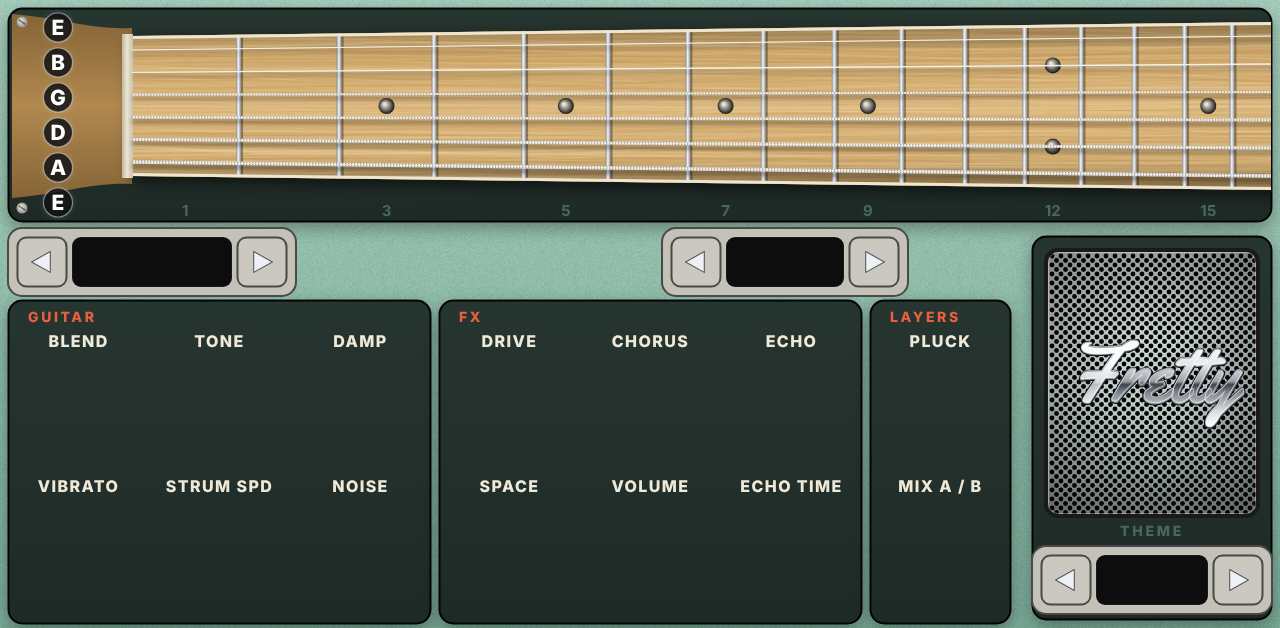
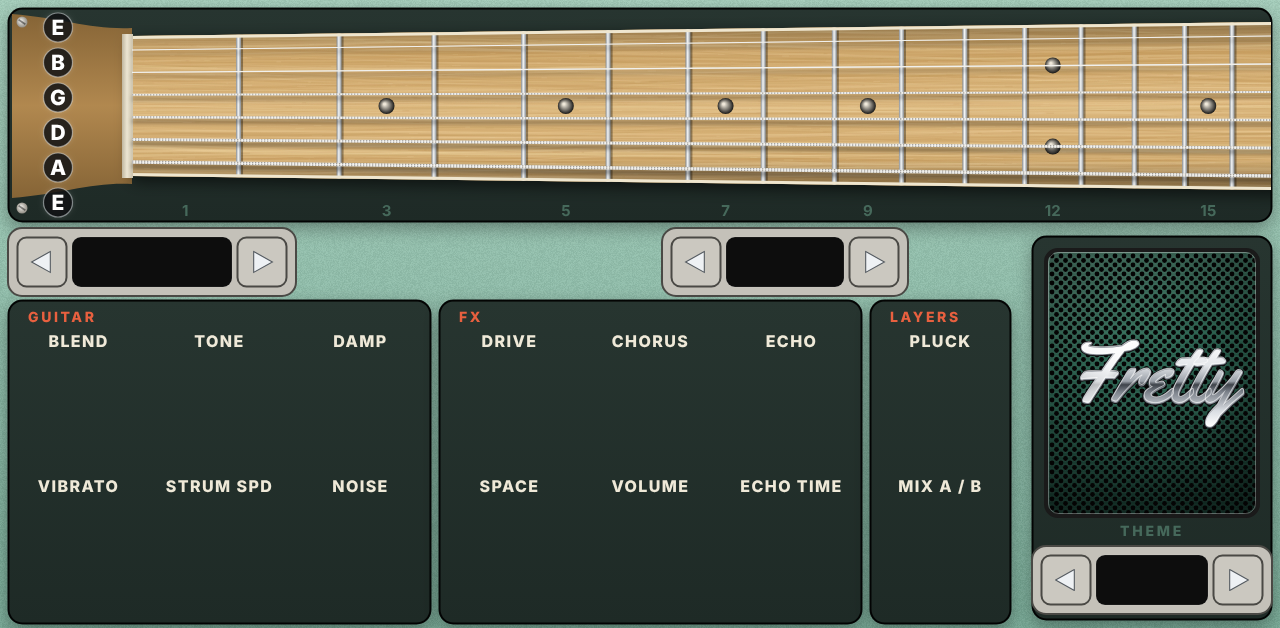
Fretboard dots: count from the nut (capo), DROP D♭ note names, none off the drawn neck; prefer positions on it; green Surf grille; test that every dot names the played note
Claude-Session: https://claude.ai/code/session_01JcLVG2K2WpLzKD3u6LkzWb

Changed region(s): [[0.8125, 0.3933, 1.0, 0.8169]]

diff --git a/tools/make_skin.py b/tools/make_skin.py
@@ -354,7 +354,7 @@ function background(name) {
 }
 // the wordmark sits on a perforated metal speaker grille, tinted per theme: [light, mid, dark]
 const MESH = new Map([[T.black, ['#5a5a5a', '#2a2a2a', '#151515']], [T.sunburst, ['#c9a46a', '#8a6a3e', '#3a2412']],
-  [T.grey, ['#8a8d92', '#55575b', '#2f3033']], [T.surf, ['#e4ece9', '#c9d6d2', '#a9b8b4']], [T.violet, ['#6a4c8a', '#3a2550', '#1f1428']],
+  [T.grey, ['#8a8d92', '#55575b', '#2f3033']], [T.surf, ['#5f9a83', '#2f6a56', '#173b30']], [T.violet, ['#6a4c8a', '#3a2550', '#1f1428']],
   [T.teal, ['#4f7c82', '#244a50', '#0f2428']]]);
 function wordPlate(x, y, w, h, size, t) {
   const themed = t === T.teal;
@@ -665,18 +665,18 @@ function vibStrip(i) {
   }
   return cv.toDataURL('image/png');
 }
-function fretStrip(i) {
+function fretStrip(i, off = 0) {   // off: the string's tuning from standard (DROP D♭: -3 on the low E)
   const b = meterBox(i), N = 17; setup(b.w * N, b.h);
   for (let f = 1; f < N; f++) {
     ctx.save(); ctx.translate(f * b.w - b.x, -b.y); ctx.beginPath(); ctx.rect(b.x, b.y, b.w, b.h); ctx.clip();
     const fret = f - 1;   // 0 = open
-    if (fret === 0) badge(58, stringY(i, NECK.x0), NOTE[TUNING[i] % 12], true, '#f3ecdc', '#141414');
+    if (fret === 0) badge(58, stringY(i, NECK.x0), NOTE[(TUNING[i] + off + 12) % 12], true, '#f3ecdc', '#141414');
     else {
       const x = (fretX(fret - 1) + fretX(fret)) / 2 + 4, y = stringY(i, x);
       ctx.save(); ctx.shadowColor = 'rgba(255,240,210,0.95)'; ctx.shadowBlur = 12;
       ctx.beginPath(); ctx.arc(x, y, 11.5, 0, 6.283); ctx.fillStyle = '#141414'; ctx.fill(); ctx.restore();
       ctx.beginPath(); ctx.arc(x, y, 11.5, 0, 6.283); ctx.strokeStyle = '#f3ecdc'; ctx.lineWidth = 2; ctx.stroke();
-      text(NOTE[(TUNING[i] + fret) % 12], x, y + 1, 12, '#f3ecdc', { align: 'center', base: 'middle', weight: 800, maxw: 19 });
+      text(NOTE[(TUNING[i] + off + fret + 12) % 12], x, y + 1, 12, '#f3ecdc', { align: 'center', base: 'middle', weight: 800, maxw: 19 });
     }
     ctx.restore();
   }
@@ -920,6 +920,8 @@ def main():
         for i in range(6):
             save(pg.evaluate("API.vibStrip(%d)" % i), os.path.join(ART, "s%d_vib.png" % (i + 1)))
             save(pg.evaluate("API.fretStrip(%d)" % i), os.path.join(ART, "s%d_fret.png" % (i + 1)))
+            if i == 0:   # the low string with DROP D♭ on: the same dots, its own note names
+                save(pg.evaluate("API.fretStrip(0, -3)"), os.path.join(ART, "s1_fret_drop.png"))
             boxes.append(pg.evaluate("API.meterBox(%d)" % i))
         b.close()
         if errs:
@@ -983,8 +985,12 @@ def write_layout(boxes):
         L.append("meter cx=%d cy=%d w=%d h=%d key=s%d_vib strip=art/s%d_vib.png frames=4" % (
             b["x"] + b["w"] // 2, b["y"] + b["h"] // 2 + Y_OFF, b["w"], b["h"], i + 1, i + 1))
     for i, b in enumerate(boxes):
-        L.append("meter cx=%d cy=%d w=%d h=%d key=s%d_fret strip=art/s%d_fret.png frames=17" % (
-            b["x"] + b["w"] // 2, b["y"] + b["h"] // 2 + Y_OFF, b["w"], b["h"], i + 1, i + 1))
+        geo = (b["x"] + b["w"] // 2, b["y"] + b["h"] // 2 + Y_OFF, b["w"], b["h"])
+        if i == 0:   # the low string names its notes for its tuning: standard, or DROP D♭
+            L.append("meter cx=%d cy=%d w=%d h=%d key=s1_fret strip=art/s1_fret.png frames=17 when=drop:0" % geo)
+            L.append("meter cx=%d cy=%d w=%d h=%d key=s1_fret strip=art/s1_fret_drop.png frames=17 when=drop:1" % geo)
+        else:
+            L.append("meter cx=%d cy=%d w=%d h=%d key=s%d_fret strip=art/s%d_fret.png frames=17" % (geo + (i + 1, i + 1)))
     x, y, w, h = LOAD_BOX
     L.append("meter cx=%d cy=%d w=%d h=%d key=load_state strip=art/loading.png frames=3" % (x + w // 2, y + h // 2 + Y_OFF, w, h))
     toggles(TOGGLES)

diff --git a/tests/notes_test.c b/tests/notes_test.c
@@ -2,6 +2,7 @@
  * tests/program_test.sh, beside engine/ so the instruments load. */
 #include <stdint.h>
 #include <stdio.h>
+#include <stdlib.h>
 #include <string.h>
 #include <unistd.h>
 #include "params.h"
@@ -35,6 +36,36 @@ static double pitch_at(AEffect *a, int ia4, float norm) {
     double d = (c[best - 1] - c[best + 1]) / (2 * (c[best - 1] - 2 * c[best] + c[best + 1]));
     return 44100.0 / (best + d);
 }
+/* the fretboard dots: whatever string shows a dot, its drawn note (standard tuning, DROP D\u266d on the low string,
+ * counted from the nut) must be the note just played, with or without CAPO and DROP */
+static int find_param(AEffect *a, const char *key) {
+    (void)a; for (int i = 0; i < NPARAMS; i++) if (!strcmp(PARAMS[i].key, key)) return i;
+    return -1;
+}
+static int fret_dots(AEffect *a) {
+    static const int TUN[6] = {40, 45, 50, 55, 59, 64};
+    int ic = find_param(a, "capo"), id = find_param(a, "drop"), is[6], bad = 0, seen = 0;
+    for (int k = 0; k < 6; k++) { char nm[32]; snprintf(nm, 32, "s%d_fret", k + 1); is[k] = find_param(a, nm); }
+    if (ic < 0 || id < 0 || is[0] < 0) { printf("FAIL fretboard test: params not found\n"); return 1; }
+    int capos[3] = {0, 3, 7}, recent[4] = {-1, -1, -1, -1};
+    for (int c = 0; c < 3; c++) for (int dr = 0; dr < 2; dr++) {
+        a->setP(a, ic, capos[c] / 9.0f); a->setP(a, id, (float)dr); run(a, 20);
+        for (int key = 38; key <= 84; key++) {
+            midi(a, 0x90, key, 110); run(a, 6);
+            for (int st = 0; st < 6; st++) {
+                char t[16] = {0}; a->d(a, 7, is[st], 0, t, 0); int f = atoi(t);
+                if (f > 0) { seen++; int note = TUN[st] - (st == 0 && dr ? 3 : 0) + (f - 1);
+                    int ok = note == key; for (int r = 0; r < 4; r++) ok |= note == recent[r];   /* a string still ringing */
+                    if (!ok) { if (bad < 5) printf("     capo %d drop %d: played %d, string %d shows fret %d (note %d)\n", capos[c], dr, key, st + 1, f - 1, note); bad++; } }
+            }
+            midi(a, 0x80, key, 0); run(a, 60);
+            recent[3] = recent[2]; recent[2] = recent[1]; recent[1] = recent[0]; recent[0] = key;
+        }
+    }
+    a->setP(a, ic, 0); a->setP(a, id, 0);
+    printf("%s fretboard dots land on the played note (capo 0/3/7, drop off/on; %d dots, %d wrong)\n", bad || !seen ? "FAIL" : "ok  ", seen, bad);
+    return bad || !seen;
+}
 int main(void) {
     AEffect *a = VSTPluginMain(host);
     a->d(a, 0, 0, 0, NULL, 0); a->d(a, 10, 0, 0, NULL, 44100); a->d(a, 11, 0, 128, NULL, 0); a->d(a, 12, 0, 1, NULL, 0);
@@ -44,6 +75,7 @@ int main(void) {
     for (int r = 0; r < 4; r++) for (int k = 0; k < 8; k++) { midi(a, 0x90, keys[k], 100); run(a, 60); midi(a, 0x80, keys[k], 0); run(a, 20); }
     run(a, 800);
     printf("%s 32 notes played: %d full screen rebuilds (UpdateDisplay; each closes MPC's PRESET popup)\n", updates ? "FAIL" : "ok  ", updates); fails += updates != 0;
+    fails += fret_dots(a);
     {   int ia4 = NPARAMS - 1; char nm[64] = {0}; a->d(a, 8, ia4, 0, nm, 0);
         double f440 = pitch_at(a, ia4, 25.0f / 51), f466 = pitch_at(a, ia4, 1.0f), r = f466 / f440;
         int ok = !strncmp(nm, "A4", 2) && r > 1.045 && r < 1.075;

diff --git a/src/engine.c b/src/engine.c
@@ -817,6 +817,7 @@ static void play_batch(inst_t *s, pend_t *pd, int n, int chord_pad) {
             if (fr == 0) sc = fminf(sc, pos > 0 ? 3.0f : 0.6f);
             int ov = s->str_voice[st];
             if (ov >= 0 && s->v[ov].on && s->v[ov].held) sc += 6.0f;      /* don't steal a string still held */
+            if (fr + (int)lroundf(s->p[P_CAPO]) > 15) sc += 4.0f;              /* past the drawn neck: only if nothing else fits */
             sc += st * 0.01f;
             if (sc < bs) { bs = sc; best = st; bfret = fr; }
         }
@@ -1438,7 +1439,10 @@ static void eng_render(void *inst, int16_t *out, int frames) {
             const voice_t *v = &s->v[vi];
             float lvl = v->meter;
             vib = lvl > 0.10f ? 3 : lvl > 0.03f ? 2 : lvl > 0.006f ? 1 : 0;
-            if (vib) { fret = s->str_fret[st] + 1; if (fret < 1) fret = 1; if (fret > 16) fret = 16; }
+            /* the dot sits where the finger is on the drawn neck: the fret counted from the nut (a capo's frets
+             * included), 1 open .. 16 fret 15; a note off the drawn neck (below the string, or past fret 15) shows none */
+            int af = s->str_fret[st] + (int)lroundf(s->p[P_CAPO]);
+            if (vib && s->str_fret[st] >= 0 && af <= 15) fret = af + 1;
         }
         if (vib != s->disp_vib[st] || fret != s->disp_fret[st]) { s->disp_vib[st] = (uint8_t)vib; s->disp_fret[st] = (uint8_t)fret; s->rev++; }
     }

diff --git a/docs/releases/v0.8.9.md b/docs/releases/v0.8.9.md
@@ -2,5 +2,9 @@
 
 ## What's new
 - **A4 TUNE knob (PERFORM page):** sets the reference pitch for everything Fretty plays, from 415 to 466 Hz (440 by default), so it can match a record or sample that isn't at 440. It's on the 8th Q-Link of the PERFORM page, is saved with your project, and presets never change it.
-- **Speaker-grille logo panel:** the chrome Fretty logo now sits on a perforated metal grille, tinted to each theme, on every page.
+- **Speaker-grille logo panel:** the chrome Fretty logo now sits on a perforated metal grille, tinted to each theme (green for Surf, violet for Violet), on every page.
 - **ECHO SYNC** moved to the foot of the FEEL panel ("ECHO ON THE BEAT") to make room for A4 TUNE; it works as before.
+
+## Fixed
+- **Fretboard dots on the wrong note:** with CAPO on, the lit dot sat that many frets too low (it counted from the capo, not from the nut); with DROP D♭ the low string's dots named the wrong notes; a note below the low string showed as the open E; and notes past fret 15 were drawn at fret 15. The dot now always sits on the fret you'd play and names that note, and Fretty prefers a position on the drawn neck when there's a choice.
+- **Surf theme:** the logo's grille is now green, so the chrome logo stands out instead of blending into it.
